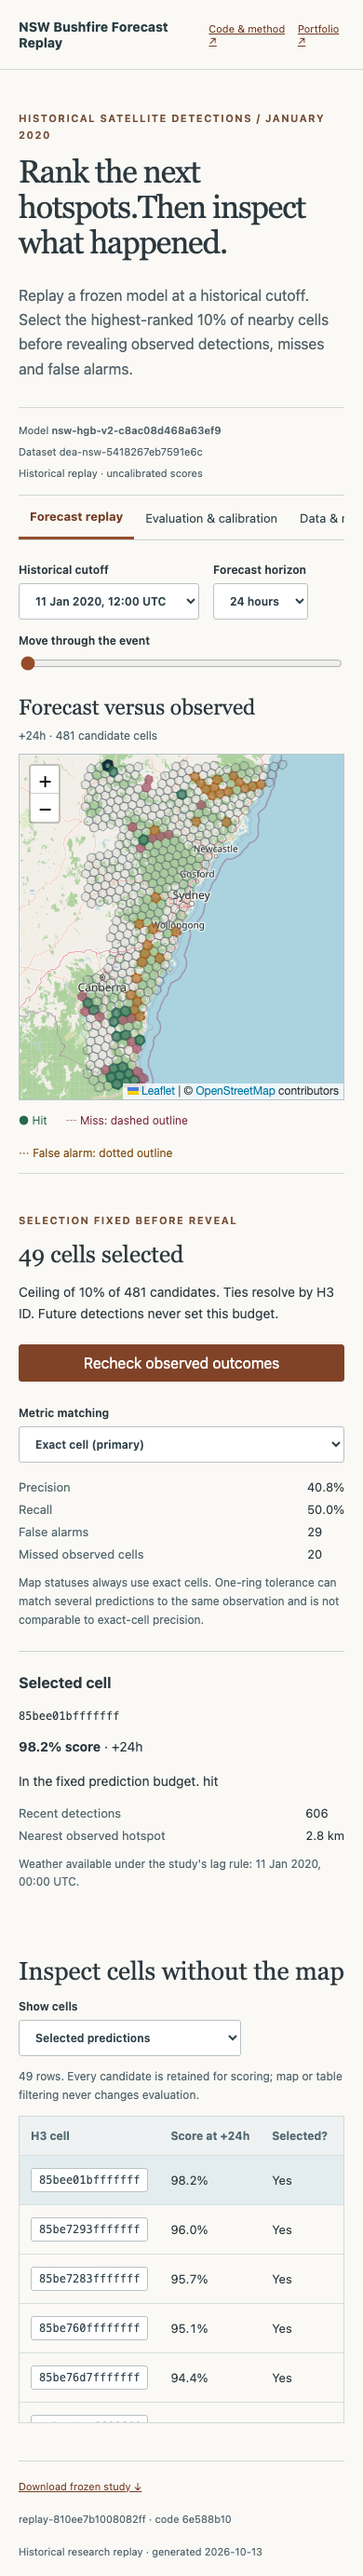
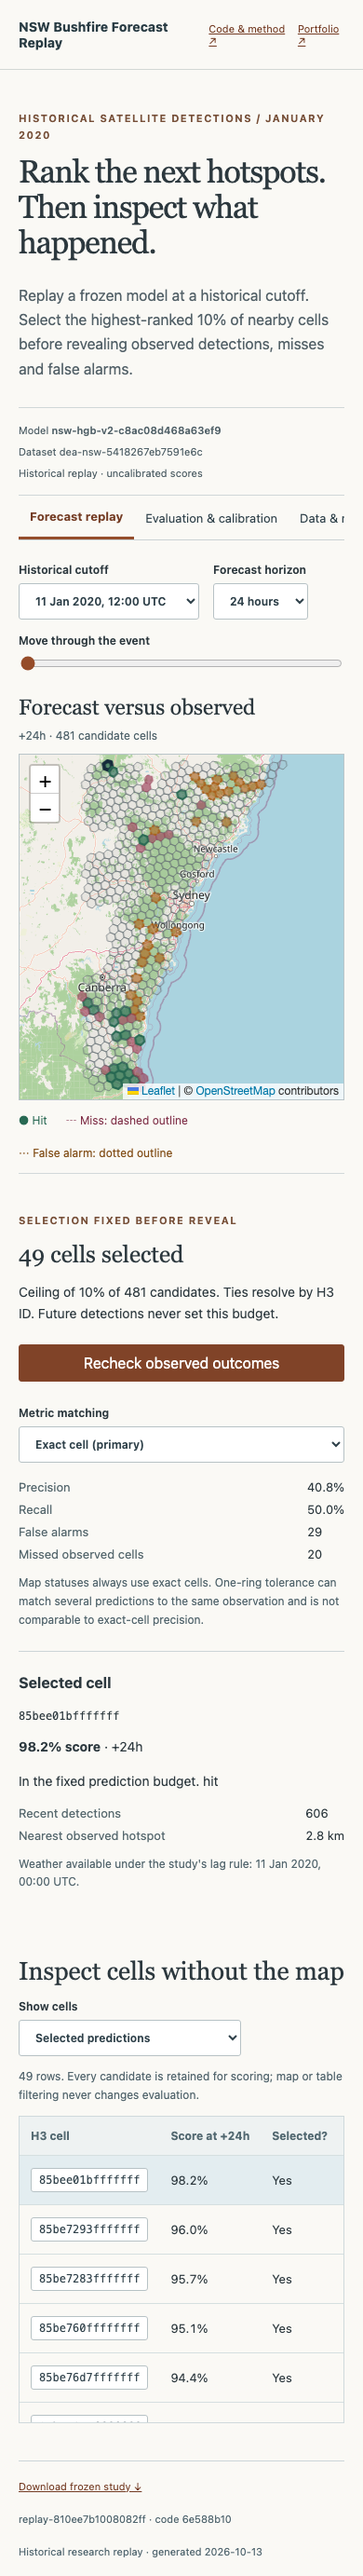
Preserve heading word spacing on mobile

Changed region(s): [[0.0615, 0.0622, 0.8615, 0.1244]]

diff --git a/frontend/src/App.tsx b/frontend/src/App.tsx
@@ -221,7 +221,7 @@ export default function App() {
             </p>
             <h1>
               Rank the next hotspots.
-              <br />
+              <br />{" "}
               Then inspect what happened.
             </h1>
           </div>
